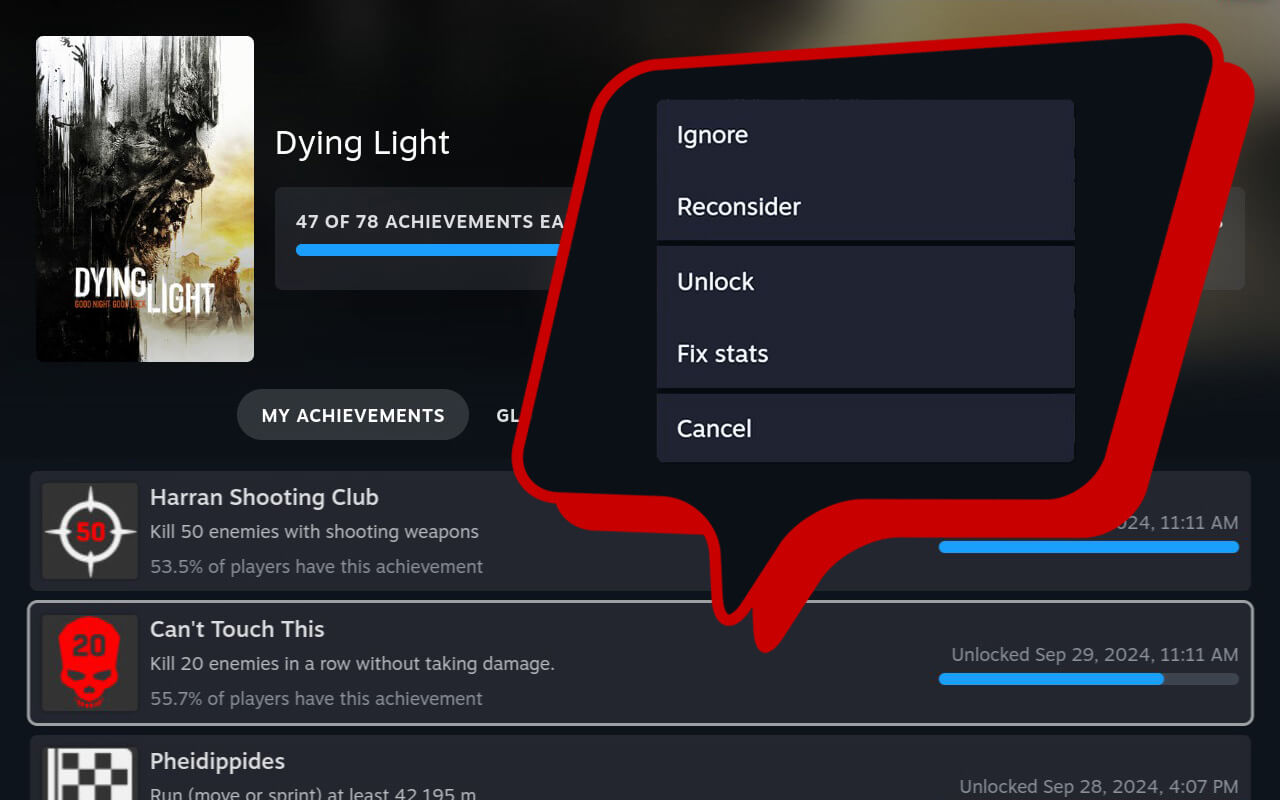
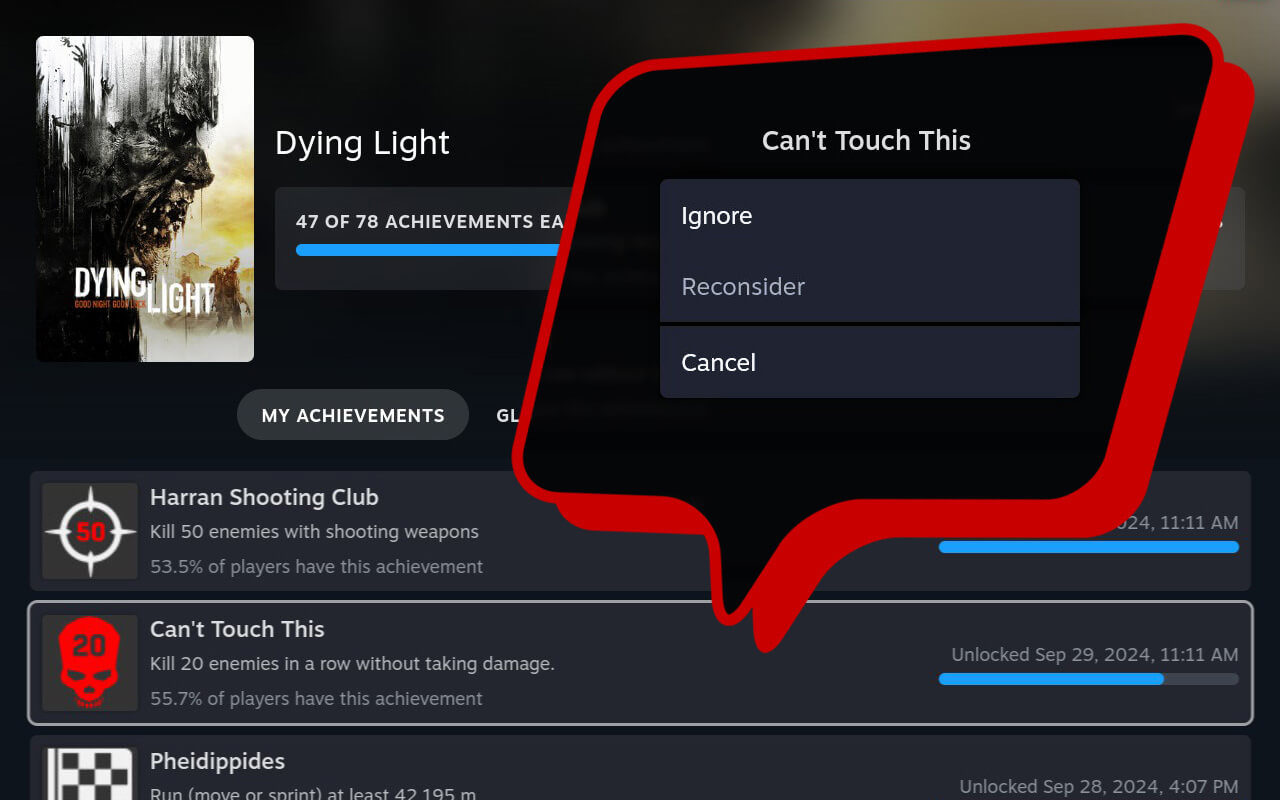
Get rid of SamRewritten

Changed region(s): [[0.5, 0.3438, 0.8438, 0.5938], [0.5, 0.125, 0.8438, 0.3125]]

diff --git a/src/components/achievementsListWrapper.tsx b/src/components/achievementsListWrapper.tsx
@@ -1,14 +1,12 @@
 import { cloneElement, ReactElement, useContext, useEffect, useState } from "react";
-import { Focusable, gamepadContextMenuClasses, Menu, MenuItem, showContextMenu } from "@decky/ui";
+import { Focusable, Menu, MenuItem, showContextMenu } from "@decky/ui";
 import { EMPTY_ACHIEVEMENTS_COUNTERS, SteamAppAchievement } from "../models";
 import useIsMounted from "../hooks/useIsMounted";
 import { AchievementsPageContext } from "./achievementsPageContextProvider";
 import { addIgnoredAchievementIds } from "../functions/addIgnoredAchievementIds";
 import { updateAchievementsCache } from "../functions/updateAchievementsCache";
 import { updateAppAchievementsCounters } from "../functions/updateAppAchievementsCounters";
-import { callable } from "@decky/api";
 import { Achievements } from "../modules/achievements";
-import confirm from "../functions/confirm";
 
 export default function AchievementsListWrapper(props: { appId: number; children: ReactElement }) {
   const mounted = useIsMounted();
@@ -32,82 +30,10 @@ export default function AchievementsListWrapper(props: { appId: number; children
 
   const ignore = async (achievement: SteamAppAchievement) => {
     ignored.add(achievement.strID);
-    counters[achievement.bAchieved ? "achieved" : "unachieved"]++;
+    counters[achievement.bAchieved ? "iAchieved" : "iUnachieved"]++;
 
     setIgnored(new Set(ignored));
     setCounters({ ...counters });
-  };
-
-  const unlock = async (achievement: SteamAppAchievement) => {
-    const confirmed = confirm('Are you sure want to unlock the achievement? This action cannot be undone', 'Unlock');
-
-    if (!confirmed) return;
-
-    const callApi = callable<[app_id: string, achievement_name: string], string>("unlock");
-    await callApi(`${props.appId}`, achievement.strID);
-  };
-
-  const showStatsContextMenu = async (achievement: SteamAppAchievement) => {
-    const result = await callable<[app_id: string], string>("get_stats")(`${props.appId}`);
-    if (!result) return;
-
-    const index = result.indexOf("STATS\n");
-    if (index === -1) return;
-
-    const options = result
-      .slice(index)
-      .split("\n")
-      .slice(2, -2)
-      .map((line) => {
-        const buffer = line.trim().split(/\s+/);
-
-        return { name: buffer[0], number: buffer[2] };
-      })
-      .filter(({ number }) => {
-        return `${achievement.flCurrentProgress}` === number;
-      });
-
-    if (!options.length) return;
-
-    showContextMenu(
-      <Menu label="Choose stat to fix">
-        <div
-          className={gamepadContextMenuClasses.contextMenuItem + " disabled"}
-          style={{ display: "block", pointerEvents: "none", minWidth: "320px" }}
-        >
-          <div
-            className="_1WP2YDDWrL5LPHoS04AKx8"
-            style={{
-              display: "flex",
-              justifyContent: "space-between",
-              margin: "-4px 0 6px",
-            }}
-          >
-            Achievement
-            <div style={{ paddingLeft: "16px", color: "rgba(255,255,255,.3)" }}>{achievement.strID}</div>
-          </div>
-
-          {achievement.strName}
-          <div className="_1WP2YDDWrL5LPHoS04AKx8" style={{ color: "inherit", marginBottom: "-4px" }}>
-            {achievement.strDescription}
-          </div>
-        </div>
-
-        <div className={gamepadContextMenuClasses.ContextMenuSeparator}></div>
-
-        {options.map(({ name }) => (
-          <MenuItem onClick={() => fixStat(name, achievement.flMaxProgress)}>
-            {name}
-            <div style={{ marginInlineStart: "auto" }}>{achievement.flCurrentProgress}</div>
-          </MenuItem>
-        ))}
-      </Menu>,
-    );
-  };
-
-  const fixStat = async (name: string, value: number) => {
-    const callApi = callable<[app_id: string, stat_name: string, stat_value: string], string>("set_stat");
-    await callApi(`${props.appId}`, name, `${value}`);
   };
 
   const handleClick = (achievement: SteamAppAchievement) => {
@@ -115,16 +41,6 @@ export default function AchievementsListWrapper(props: { appId: number; children
       <Menu label={achievement.strName}>
         <MenuItem onSelected={() => ignore(achievement)}>Ignore</MenuItem>
         <MenuItem disabled={true}>Reconsider</MenuItem>
-
-        <div className={gamepadContextMenuClasses.ContextMenuSeparator}></div>
-
-        <MenuItem disabled={achievement.bAchieved} onClick={() => unlock(achievement)}>
-          Unlock
-        </MenuItem>
-
-        {achievement.bAchieved && achievement.flCurrentProgress < achievement.flMaxProgress && (
-          <MenuItem onClick={() => showStatsContextMenu(achievement)}>Fix stats</MenuItem>
-        )}
       </Menu>,
     );
   };

diff --git a/src/components/achievementsHeaderWrapper.tsx b/src/components/achievementsHeaderWrapper.tsx
@@ -4,15 +4,15 @@ import { AchievementsPageContext } from "./achievementsPageContextProvider";
 export default function AchievementsHeaderWrapper({ children }: { children: ReactElement }) {
   const { counters } = useContext(AchievementsPageContext);
 
-  if (!counters.unachieved && !counters.achieved) {
+  if (!counters.iUnachieved && !counters.iAchieved) {
     return children;
   }
 
   return cloneElement(children, {
     ...children.props,
     achievements: {
-      cEarned: children.props.achievements.cEarned - counters.achieved,
-      cTotal: children.props.achievements.cTotal - counters.achieved - counters.unachieved,
+      cEarned: children.props.achievements.cEarned - counters.iAchieved,
+      cTotal: children.props.achievements.cTotal - counters.iAchieved - counters.iUnachieved,
     },
   });
 }

diff --git a/src/functions/updateAchievementsCache.ts b/src/functions/updateAchievementsCache.ts
@@ -22,13 +22,13 @@ export function updateAchievementsCache(appId: number, ignored: Set<SteamAppAchi
 
   ignored.forEach((id): boolean | void => {
     if (filteredAchievements.achieved[id]) {
-      counters.achieved++;
+      counters.iAchieved++;
       ignoredAchievements.achieved[id] = filteredAchievements.achieved[id];
       return delete filteredAchievements.achieved[id];
     }
 
     if (filteredAchievements.unachieved[id]) {
-      counters.unachieved++;
+      counters.iUnachieved++;
       ignoredAchievements.unachieved[id] = filteredAchievements.unachieved[id];
       return delete filteredAchievements.unachieved[id];
     }

diff --git a/src/functions/updateProgressCache.ts b/src/functions/updateProgressCache.ts
@@ -8,8 +8,8 @@ export function updateProgressCache(appId: number, counters: AppAchievementsCoun
   const progress = appAchievementProgressCache.m_achievementProgress?.mapCache?.get(appId);
 
   if (progress) {
-    const total = progress.total - counters.achieved - counters.unachieved;
-    const unlocked = progress.unlocked - counters.achieved;
+    const total = progress.total - counters.iAchieved - counters.iUnachieved;
+    const unlocked = progress.unlocked - counters.iAchieved;
 
     appAchievementProgressCache.m_achievementProgress.mapCache.set(`f${appId}`, {
       ...progress,

diff --git a/src/models/index.ts b/src/models/index.ts
@@ -19,13 +19,13 @@ export interface AchievementsCacheData {
 }
 
 export interface AppAchievementsCounters {
-  achieved: number;
-  unachieved: number;
+  iAchieved: number;
+  iUnachieved: number;
 }
 
 export type AchievementsCountersIndex = Record<number, AppAchievementsCounters>;
 
-export const EMPTY_ACHIEVEMENTS_COUNTERS = { achieved: 0, unachieved: 0 };
+export const EMPTY_ACHIEVEMENTS_COUNTERS: AppAchievementsCounters = { iAchieved: 0, iUnachieved: 0 };
 
 export interface SteamAppAchievement {
   strID: string;

diff --git a/src/components/ignoredAchievementsListWrapper.tsx b/src/components/ignoredAchievementsListWrapper.tsx
@@ -34,7 +34,7 @@ export default function IgnoredAchievementsListWrapper(props: { appId: number; c
 
   const reconsider = async (achievement: SteamAppAchievement) => {
     reconsidered.add(achievement.strID);
-    counters[achievement.bAchieved ? "achieved" : "unachieved"]--;
+    counters[achievement.bAchieved ? "iAchieved" : "iUnachieved"]--;
 
     setReconsidered(new Set(reconsidered));
     setCounters({ ...counters });

diff --git a/src/functions/updateAppAchievementsCounters.ts b/src/functions/updateAppAchievementsCounters.ts
@@ -6,8 +6,8 @@ export async function updateAppAchievementsCounters(appId: number, diff: AppAchi
   const index = await getAchievementsCountersIndex();
   const counters = index[appId] ?? { ...EMPTY_ACHIEVEMENTS_COUNTERS };
 
-  counters.achieved += diff.achieved;
-  counters.unachieved += diff.unachieved;
+  counters.iAchieved += diff.iAchieved;
+  counters.iUnachieved += diff.iUnachieved;
 
   index[appId] = counters;
 

diff --git a/main.py b/main.py
@@ -2,21 +2,11 @@ import subprocess
 import decky
 
 class Plugin:
-    async def unlock(self, app_id: str, achievement_name: str):
-        subprocess.run([decky.DECKY_PLUGIN_DIR + "/bin/launch.sh", '-a', app_id, '--unlock', achievement_name])
-
-    async def lock(self, app_id: str, achievement_name: str):
-        subprocess.run([decky.DECKY_PLUGIN_DIR + "/bin/launch.sh", '-a', app_id, '--lock', achievement_name])
-
-    async def get_stats(self, app_id: str) -> str:
-        status = subprocess.run([decky.DECKY_PLUGIN_DIR + "/bin/launch.sh", "-a", app_id, "--ls"], timeout=10, text=True, capture_output=True).stdout
-        return status
-
-    async def set_stat(self, app_id: str, stat_name: str, stat_value: str):
-        subprocess.run([decky.DECKY_PLUGIN_DIR + "/bin/launch.sh", '-a', app_id, '--statnames', stat_name, '--statvalues', stat_value])
-
     async def _main(self):
-        pass
+         decky.logger.info("[AchievementsManager Backend] Loaded")
 
     async def _unload(self):
-        pass
+        decky.logger.info("[Achievements Backend] Unloaded")
+
+    async def _uninstall(self):
+        decky.logger.info("[Achievements Backend] Uninstalled")

diff --git a/README.md b/README.md
@@ -1,15 +1,13 @@
 # 🏆 Achievements Manager 
 [![Chat](https://img.shields.io/badge/chat-on%20discord-7289da.svg)](https://deckbrew.xyz/discord)
 
-Get full control over your achievements
+Get control over your achievements
 
 ![Steam Deck Achievements Manager plugin](./assets/thumbnail.jpg)
 
 ## Features
-- Ignore undesirable achievement to make Steam think it does not exist
+- Mark undesirable achievements as ignored to make Steam think they don't exist
 - Reconsider ignored achievements
-- Unlock achievements
-- Fix glitched stats for unlocked achievements
 - Recalculate the plugin cache if something goes wrong
 - Reset all changes
 
@@ -22,16 +20,10 @@ Get full control over your achievements
 Once you have installed Achievements Manager:
 - Open a game page from "Home" or "Library"
 - Go to achievements page by clicking any achievement in "Your stuff" tab
-- Click any achievement in "My achievements" tab to unlock or ignore achievement, fix glitched stats
+- Click any achievement in "My achievements" tab to mark achievement as "Ignored"
 - Click any achievement in "Ignored achievements" tab to reconsider ignored achievement
 
 If something goes wrong: 
 - Press the <img src="https://raw.githubusercontent.com/SteamDeckHomebrew/decky-loader/main/docs/images/light/qam.svg#gh-dark-mode-only" height=16><img src="https://raw.githubusercontent.com/SteamDeckHomebrew/decky-loader/main/docs/images/dark/qam.svg#gh-light-mode-only" height=16> button to open Quick Access Menu (QAM)
 - Navigate to the <img src="https://raw.githubusercontent.com/SteamDeckHomebrew/decky-loader/main/docs/images/light/plug.svg#gh-dark-mode-only" height=16><img src="https://raw.githubusercontent.com/SteamDeckHomebrew/decky-loader/main/docs/images/dark/plug.svg#gh-light-mode-only" height=16> icon
 - Click "Achievements Manager" item and recalculate the plugin cache or reset all changes
-
-## Credits
-"Unlock" achievement and "Fix stats" features are based on the PaulCombal's [SamRewritten](https://github.com/PaulCombal/SamRewritten) project which in turn is based on the idea of gibbed's [SteamAchievementManager](https://github.com/gibbed/SteamAchievementManager).
-
-## Footnotes
-This software is licensed under the GNU GPL v3 and comes with no warranty. Use "Unlock" achievement and "Fix stats" features at your own risk. We believe you should not get any Steam ban using it, but we do not take any responsibility over your user experience.
